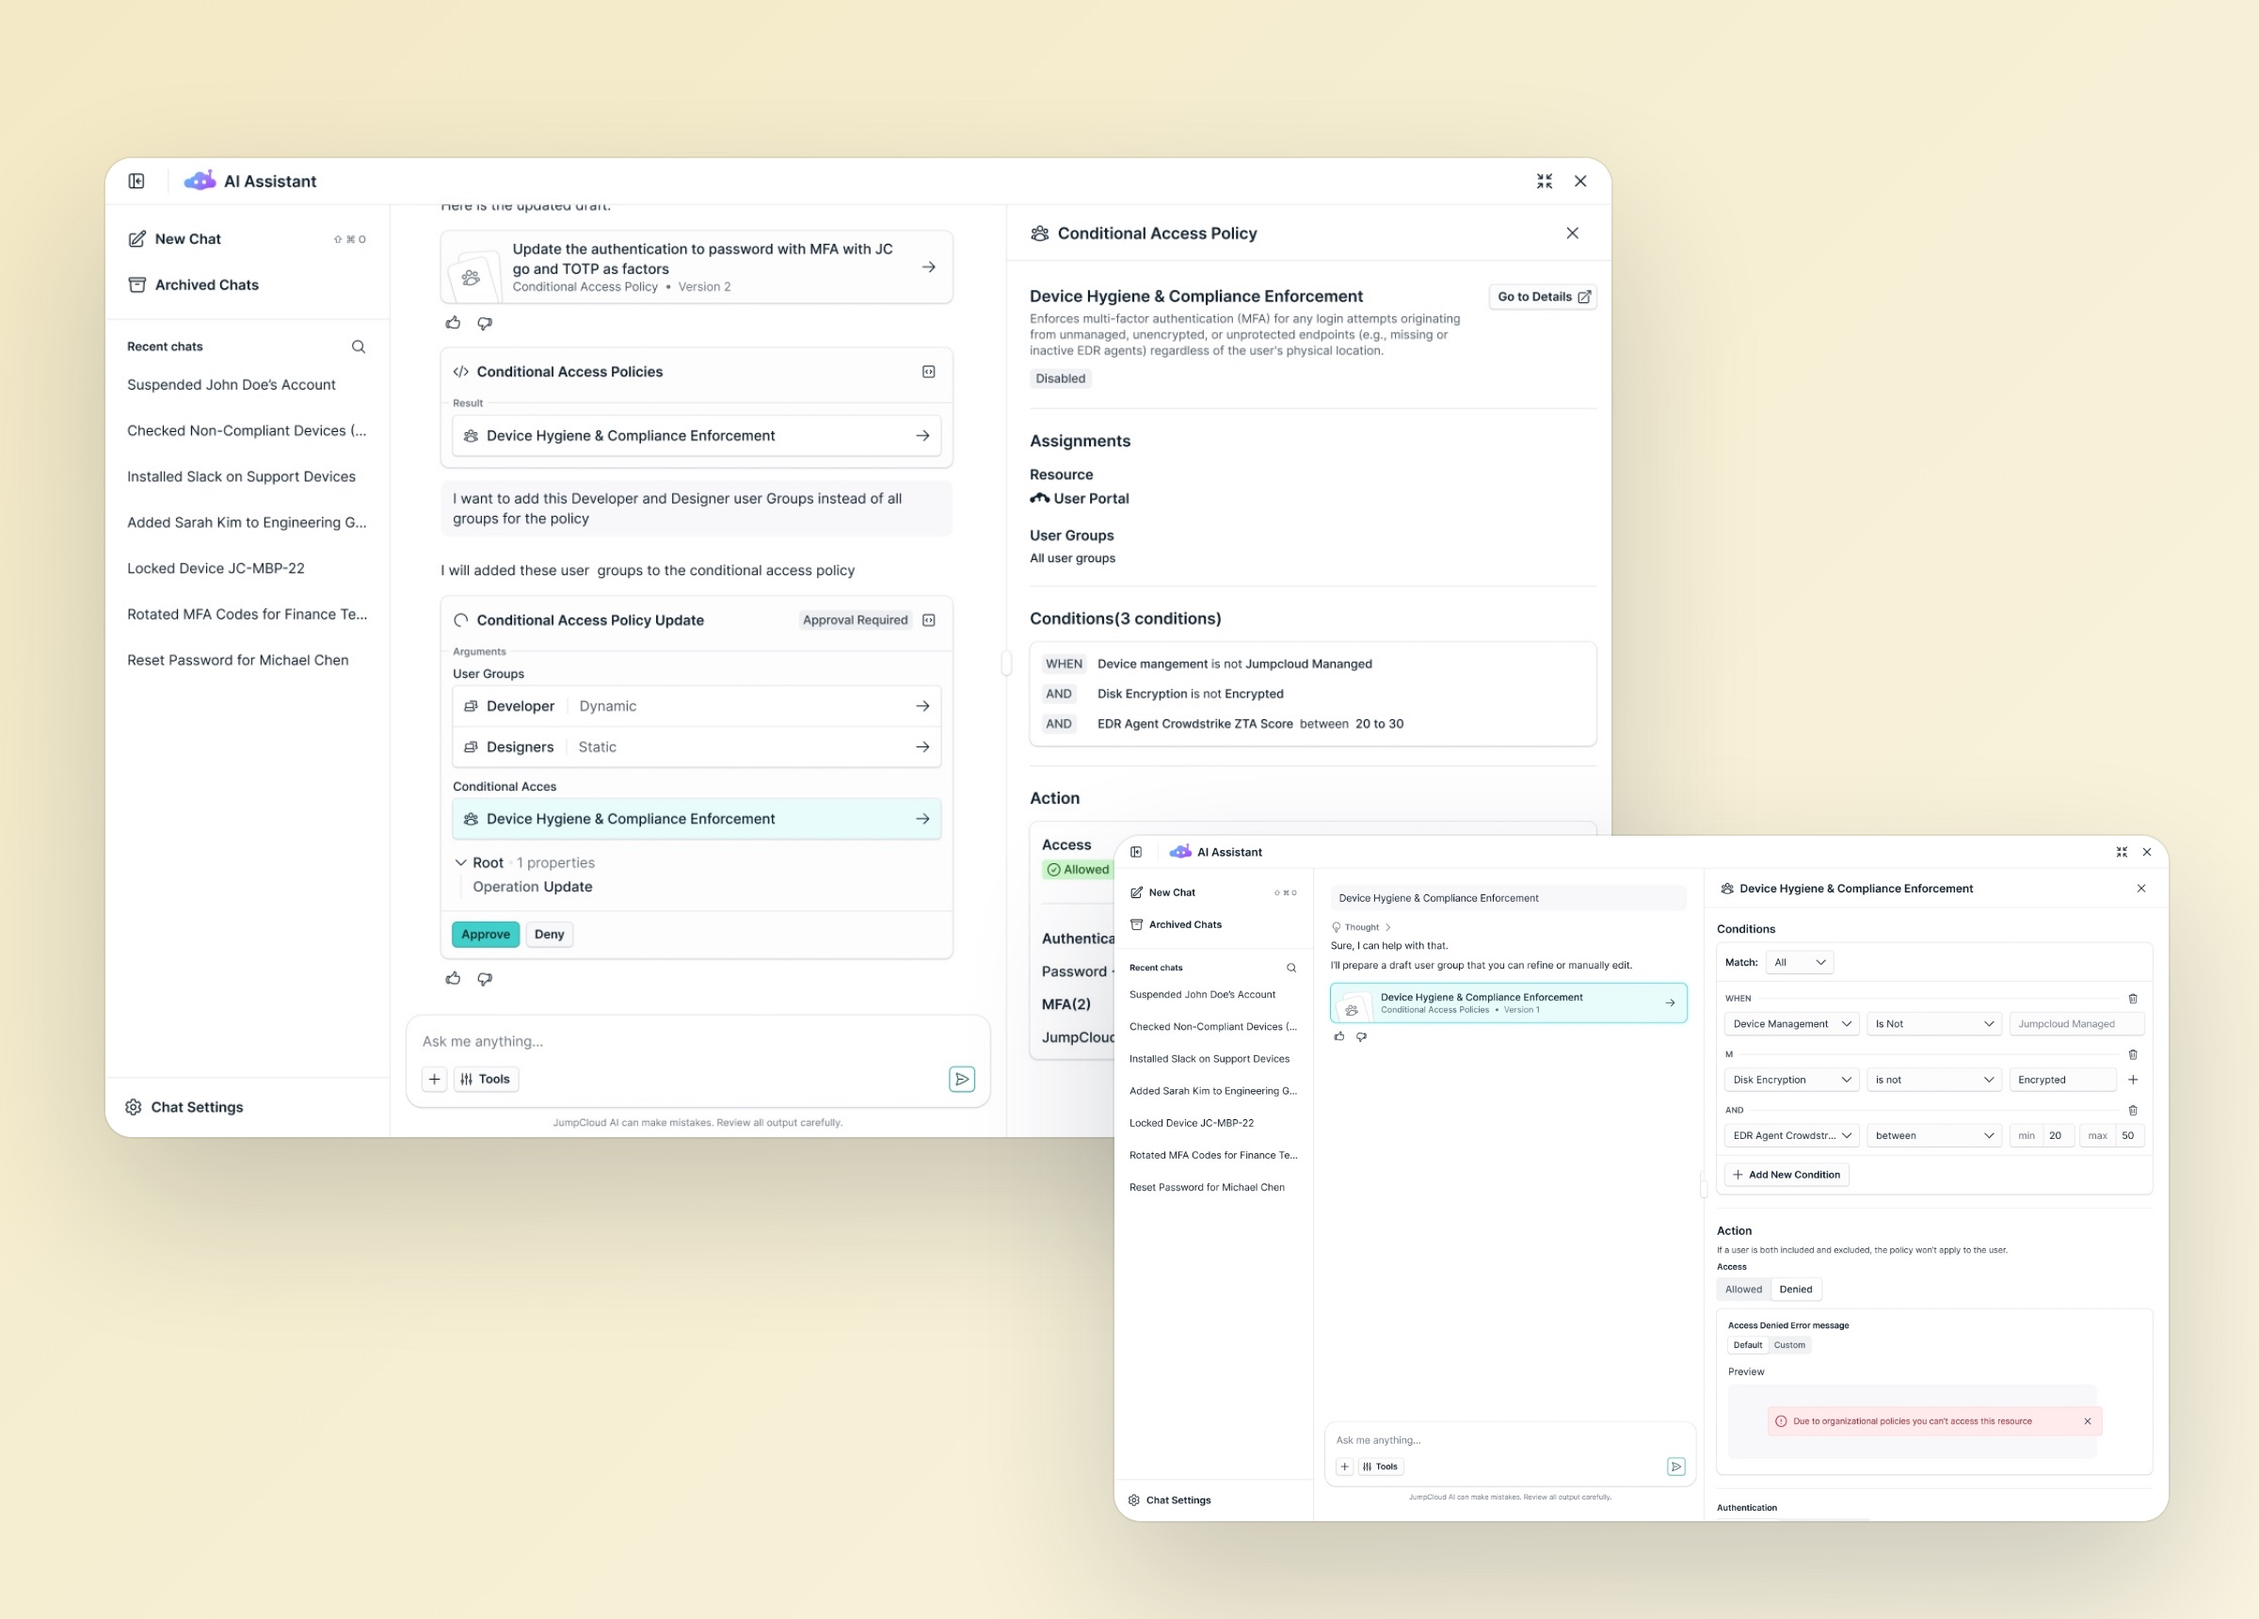
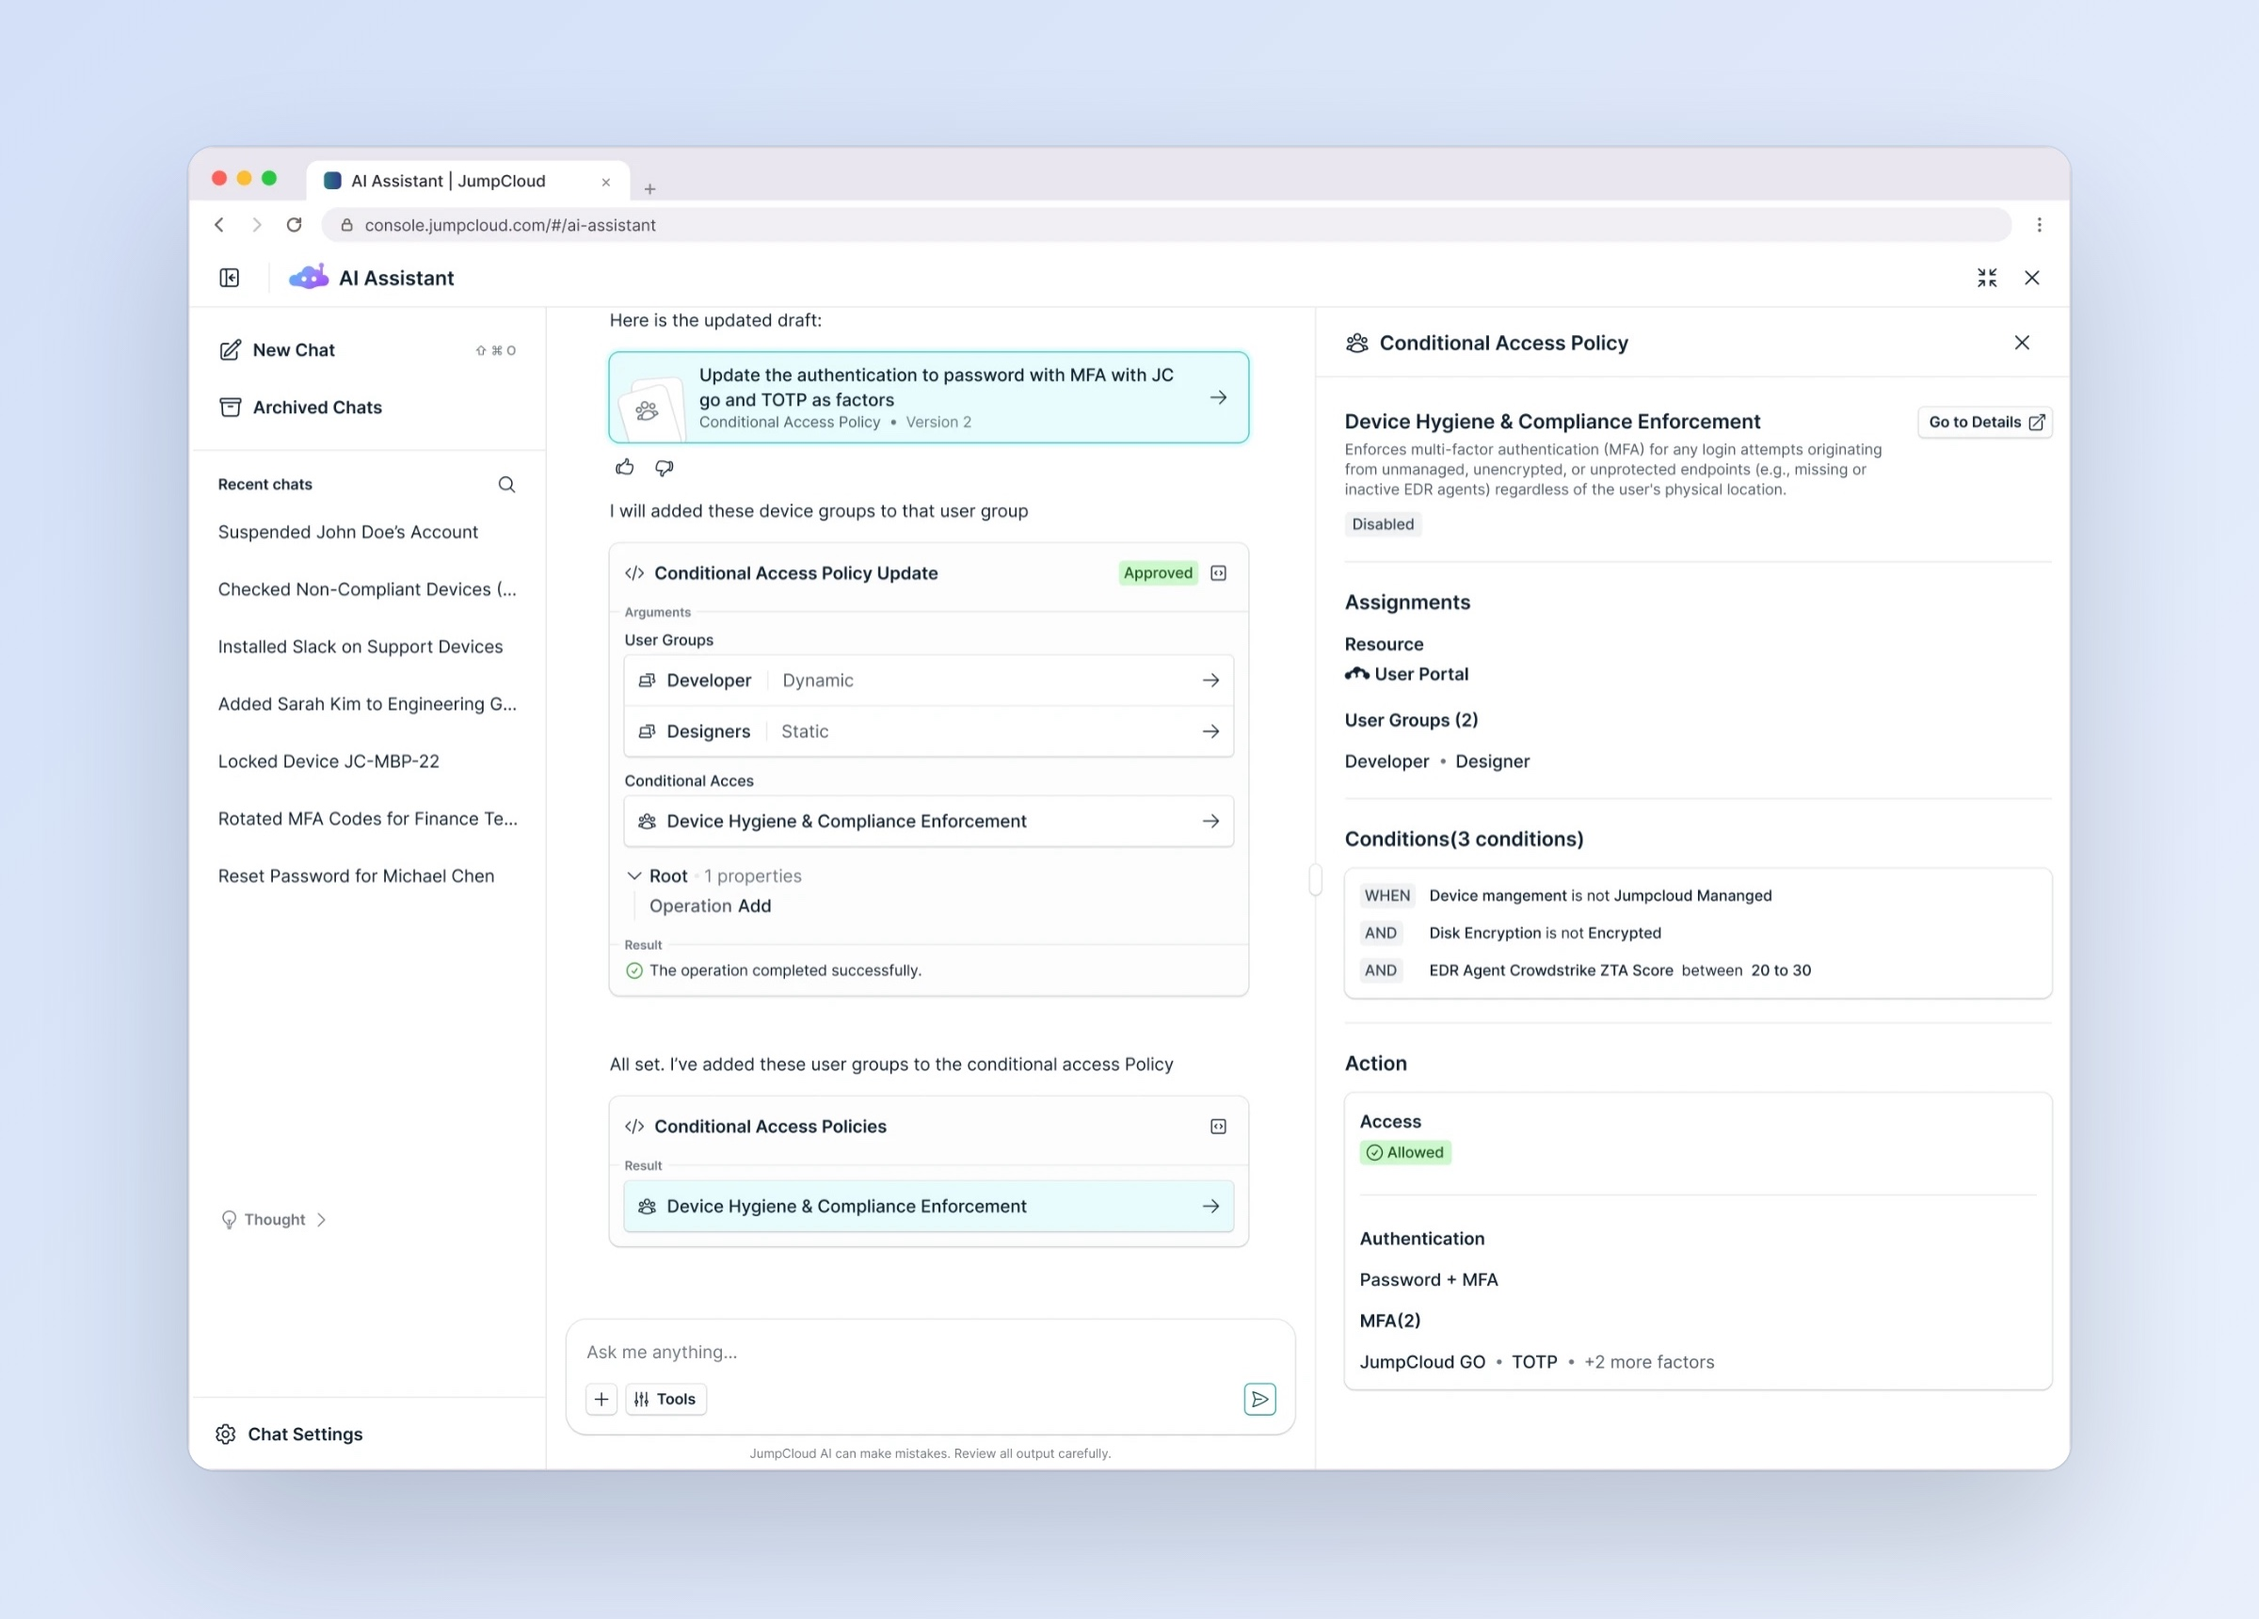
Home cards: one Workflows image, AI Assistant without error state, Defender without slanted phone

diff --git a/thumbs/cards.html b/thumbs/cards.html
@@ -10,8 +10,7 @@
 </style></head><body>
 <!-- Workflows: the builder, and the full run-history screen (uncropped) -->
 <section class="c" id="workflows" style="background:linear-gradient(135deg,#CBE6E0,#E6F4F1)">
-  <div class="s" style="left:60px;top:96px;width:880px;height:571px"><img src="../img/jc-flows.jpg"></div>
-  <div class="s" style="right:56px;bottom:64px;width:640px;height:436px"><img src="../img/wf-history.jpg"></div>
+  <div class="s" style="left:191px;top:80px;width:818px;height:700px"><img src="../img/workflows-hi.jpg"></div>
 </section>
 <section class="c" id="slack" style="background:linear-gradient(135deg,#E8D8EC,#F4EBF6)">
   <div class="s" style="left:56px;top:84px;width:980px;height:666px;background:transparent;box-shadow:none"><img src="../img/sl-ar-1.png" style="filter:drop-shadow(0 34px 60px rgba(60,20,70,.3))"></div>
@@ -28,17 +27,15 @@
   <div class="s p" style="left:804px;top:150px;width:262px;height:570px"><img src="../img/pr-key.jpg"></div>
 </section>
 <section class="c" id="conditional-access" style="background:linear-gradient(135deg,#D3E0F7,#E9F0FC)">
-  <div class="s" style="left:56px;top:84px;width:800px;height:520px"><img src="../img/cap-approve.jpg"></div>
-  <div class="s" style="right:48px;bottom:52px;width:560px;height:364px"><img src="../img/cap-draft.jpg"></div>
+  <div class="s" style="left:100px;top:78px;width:1000px;height:703px"><img src="../img/ai-assistant-hi.jpg"></div>
 </section>
 <section class="c" id="circuit" style="background:linear-gradient(135deg,#E2E2DE,#F2F2EF)">
   <div class="s" style="left:64px;top:110px;width:880px;height:482px"><img src="../img/ts-rows.png"></div>
   <div class="s" style="right:64px;top:170px;width:360px;height:560px"><img src="../img/ts-panel.png"></div>
 </section>
 <section class="c" id="defender" style="background:linear-gradient(135deg,#D5DEF7,#EAF0FD)">
-  <div class="s p" style="left:96px;top:120px;width:270px;height:584px"><img src="../img/defender-ios-1.jpg"></div>
-  <div class="s p" style="left:420px;top:90px;width:330px;height:587px"><img src="../img/defender-android-2.jpg"></div>
-  <div class="s p" style="left:804px;top:120px;width:270px;height:584px"><img src="../img/defender-ios-2.jpg"></div>
+  <div class="s p" style="left:270px;top:130px;width:330px;height:587px"><img src="../img/defender-android-2.jpg"></div>
+  <div class="s p" style="left:660px;top:160px;width:270px;height:584px"><img src="../img/defender-ios-2.jpg"></div>
 </section>
 <section class="c" id="mobile-framework" style="background:linear-gradient(135deg,#CDEBE2,#E5F5EF)">
   <div class="s p" style="left:96px;top:90px;width:330px;height:587px"><img src="../img/defender-android-1.jpg"></div>
